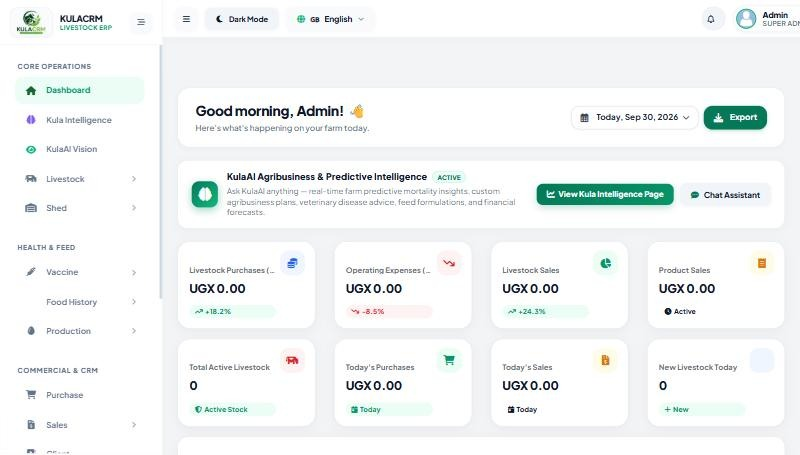
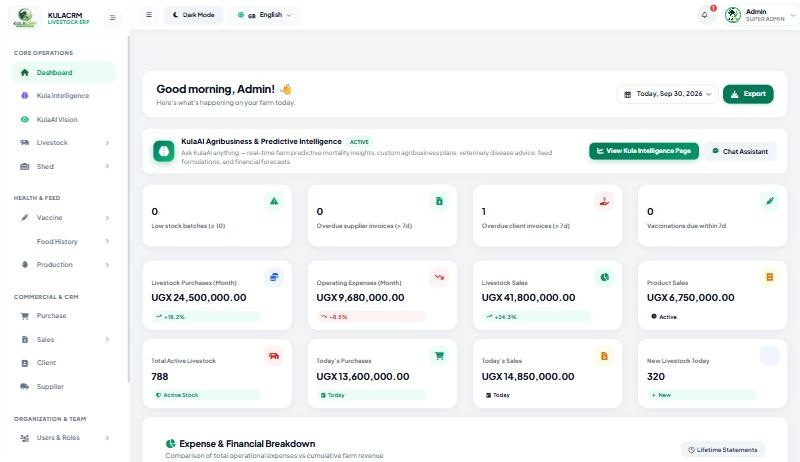
fix(home): dashboard cards, supplier list and recent activity were always empty; refresh landing laptop image
- Home controller guarded every model with isset($this->model), which is always false for HMVC models,
  so "Livestock Purchases", suppliers and recent activity fell back to 0/empty for everyone
- Same isset() bug meant AI chat interactions were never written to the audit log
- Landing laptop mockup: recaptured with sample data (sidebar visible, populated cards)

diff --git a/application/modules/home/controllers/Home.php b/application/modules/home/controllers/Home.php
@@ -39,29 +39,31 @@ class Home extends MY_Controller
         $data = array();
         
         // Ensure HMVC models are properly bound to controller properties
-        if (!isset($this->food_model) || !is_object($this->food_model)) {
+        if (!is_object($this->purchase_model) || !is_object($this->purchase_model)) {
+            $this->load->model('purchase/purchase_model', 'purchase_model');
+        }
+        if (!is_object($this->food_model) || !is_object($this->food_model)) {
             $this->load->model('food/food_model', 'food_model');
         }
-        if (!isset($this->shed_model) || !is_object($this->shed_model)) {
+        if (!is_object($this->shed_model) || !is_object($this->shed_model)) {
             $this->load->model('shed/shed_model', 'shed_model');
         }
-        if (!isset($this->client_model) || !is_object($this->client_model)) {
+        if (!is_object($this->client_model) || !is_object($this->client_model)) {
             $this->load->model('client/client_model', 'client_model');
         }
-        if (!isset($this->supplier_model) || !is_object($this->supplier_model)) {
+        if (!is_object($this->supplier_model) || !is_object($this->supplier_model)) {
             $this->load->model('supplier/supplier_model', 'supplier_model');
         }
 
         try {
-            $data['total_livestock_purchased_amount'] = (isset($this->purchase_model) && method_exists($this->purchase_model, 'getTotalLivestockPurchasedAmount')) ? $this->purchase_model->getTotalLivestockPurchasedAmount() : 0;
+            $data['total_livestock_purchased_amount'] = (is_object($this->purchase_model) && method_exists($this->purchase_model, 'getTotalLivestockPurchasedAmount')) ? $this->purchase_model->getTotalLivestockPurchasedAmount() : 0;
         } catch (Throwable $e) { $data['total_livestock_purchased_amount'] = 0; }
-        
         try {
             $data['foods'] = $this->food_model->getFood();
         } catch (Throwable $e) { $data['foods'] = array(); }
         
         try {
-            $data['settings'] = (isset($this->settings_model) && method_exists($this->settings_model, 'getSettings')) ? $this->settings_model->getSettings() : null;
+            $data['settings'] = (is_object($this->settings_model) && method_exists($this->settings_model, 'getSettings')) ? $this->settings_model->getSettings() : null;
         } catch (Throwable $e) { $data['settings'] = null; }
         
         try {
@@ -73,16 +75,16 @@ class Home extends MY_Controller
         } catch (Throwable $e) { $data['sheds'] = array(); }
         
         try {
-            $data['suppliers'] = (isset($this->supplier_model) && method_exists($this->supplier_model, 'getData')) ? $this->supplier_model->getData('supplier', 's_status', 1) : array();
+            $data['suppliers'] = (is_object($this->supplier_model) && method_exists($this->supplier_model, 'getData')) ? $this->supplier_model->getData('supplier', 's_status', 1) : array();
         } catch (Throwable $e) { $data['suppliers'] = array(); }
         
         try {
-            $data['recent_activity'] = (isset($this->home_model) && method_exists($this->home_model, 'getRecentActivity')) ? $this->home_model->getRecentActivity(10) : array();
+            $data['recent_activity'] = (is_object($this->home_model) && method_exists($this->home_model, 'getRecentActivity')) ? $this->home_model->getRecentActivity(10) : array();
         } catch (Throwable $e) { $data['recent_activity'] = array(); }
 
         // Auto scan farm alerts
         try {
-            if (isset($this->notification_model) && method_exists($this->notification_model, 'auto_generate_farm_alerts')) {
+            if (is_object($this->notification_model) && method_exists($this->notification_model, 'auto_generate_farm_alerts')) {
                 $this->notification_model->auto_generate_farm_alerts();
             }
         } catch (Throwable $e) {}

diff --git a/application/modules/kula_ai/controllers/Kula_ai.php b/application/modules/kula_ai/controllers/Kula_ai.php
@@ -236,7 +236,7 @@ RESPONSE GUIDELINES:
             $this->session->set_userdata($hist_key, array_slice($chat_history, -10));
 
             // 5. Audit Log Interaction
-            if (isset($this->kula_ai_model)) {
+            if (is_object($this->kula_ai_model)) {
                 $this->kula_ai_model->log_interaction(
                     $prompt,
                     $tools_used,
